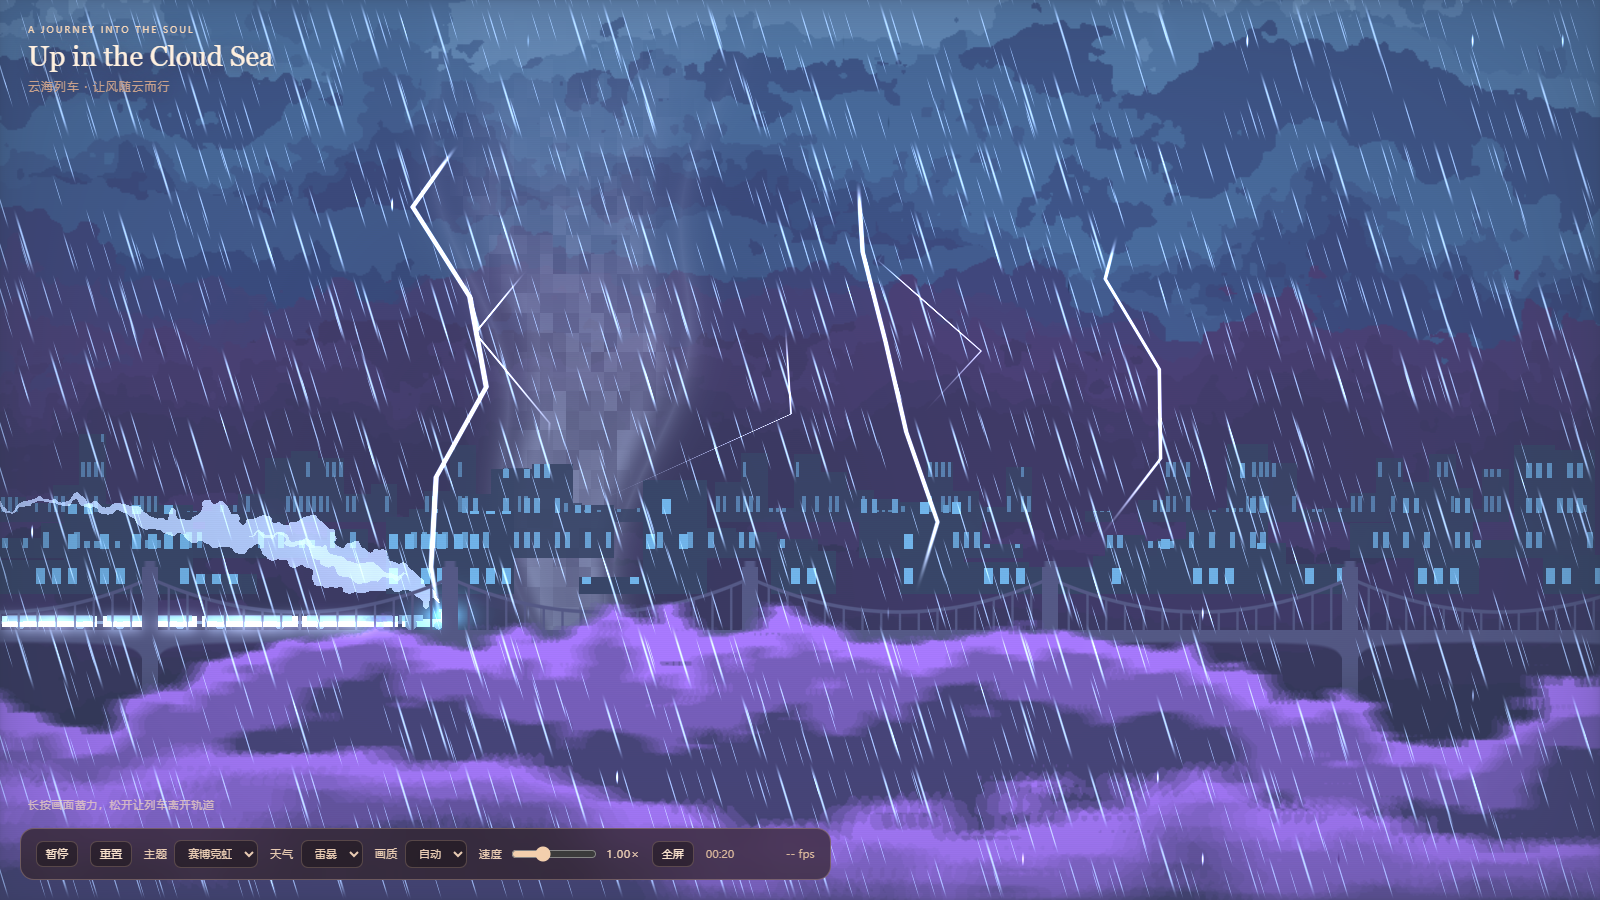
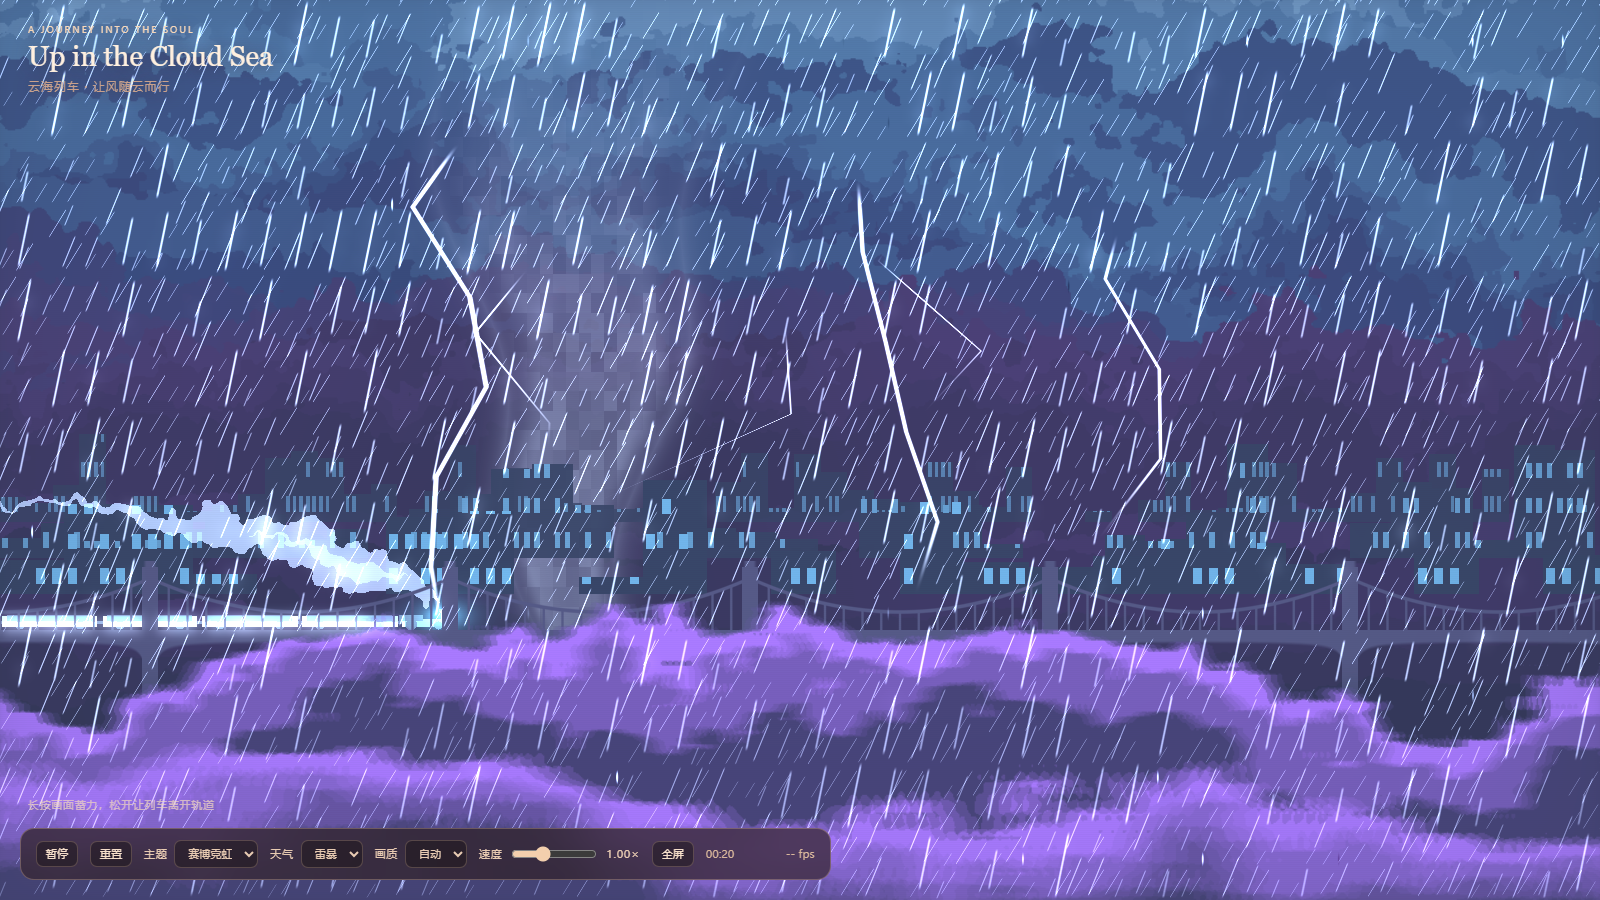
M14: 闪电照亮雨幕 + 暗角收缩

diff --git a/src/scene/cloudsea.js b/src/scene/cloudsea.js
@@ -59,7 +59,7 @@ const COMPOSITE_UNIFORMS = [
   "uParticleColor", "uParticleDensity", "uParticleSpeed", "uWeatherParticleMul", "uParticleDir",
   "uWeatherParticleSpeed", "uWeatherParticleDriftX", "uWeatherParticleShape", "uWeatherParticleSize",
   "uWeatherParticleMix", "uWeatherParticleColor",
-  "uPrecipType", "uPrecipAmount", "uWindSlant", "uTornado", "uTornadoPos",
+  "uPrecipType", "uPrecipAmount", "uWindSlant", "uTornado", "uTornadoPos", "uFlash",
   "uParallax", "uScanline", "uTrainOffset", "uTrainScale", "uSmokeFade", "uRailFade",
   "uTrainGrain", "uCraneEnabled", "uCraneColor",
   "uSnowCover", "uSnowColor",

diff --git a/docs/开发日志.md b/docs/开发日志.md
@@ -242,10 +242,39 @@ float rainVis = mix(1.0, 0.55, fg.a)            // 前景雾挡掉一部分雨
 
 ---
 
+## 2026-11-18 · M14 闪电照亮雨幕
+
+### 做了什么
+
+1. `composite.frag` 接收 `uFlash`（之前只传到 final）：
+   - 雨色 `rainTint += vec3(0.90,0.95,1.0) * uFlash * 0.55`；
+   - 可见度 `vis *= 1.0 + 0.55*uFlash`；
+   - 雨丝自发光 `rain * 0.09 * (0.35+lum) * (1.0 + 1.6*uFlash)`；
+   - 雪同理，`snowTint` 在闪电时偏冷蓝。
+2. `final.frag` 的暗角跟着收缩：`mix(vignetteFactor(uv), 1.0, uFlash*0.55)`——
+   闪电瞬间画面边缘不再压暗，视觉上是"整片天都亮了"。
+
+### 效果
+
+`shots/storm-flash-compare.png`：上=无闪电（暗、雨不明显），下=闪电 0.9（整场雨被照亮、暗角退开、主枝与分叉清晰）。
+
+### 数据
+
+- 1080p：雷暴 9.3 ms 量级，与 M13 持平（只是多了几个乘加）；
+- `verify.ps1` 8/8 通过。
+
+### 还没做
+
+- **雨雾层**：低频噪声薄雾，和遮挡是两件事；
+- **水花/雨簇疏密**；
+- 雷暴时云层增厚（`disp` 放大或加两层云）。
+
+---
+
 ## 待办（按优先级）
 
 1. **音频**：风声（随天气变化）、雷声、起飞音效——M9 唯一没兑现的项；
-   （雨丝质感：云遮蔽已完成，剩雨雾与闪电提亮）
+   （雨丝质感：云遮蔽、闪电提亮已完成，剩雨雾与雨簇疏密）
 2. **龙卷挖空云层**：现在只有涡旋扭曲，没有真正的缺口；
 3. **竖屏构图**：430×860 下 `uv.x` 只有 0.5，列车占比过大，需要给云层一套纵向参数；
 4. **飓风的体感**：目前靠风速与粒子漂移，可再加画面轻微抖动与云的横向拉伸；
